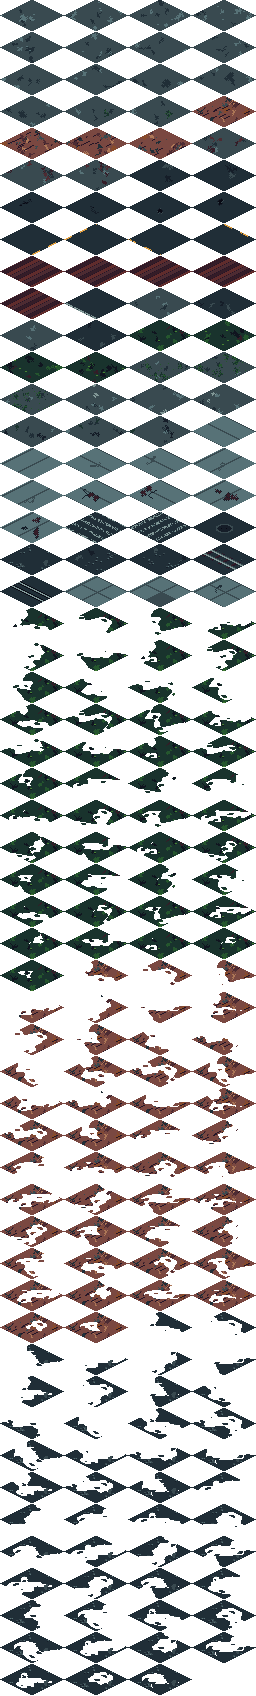
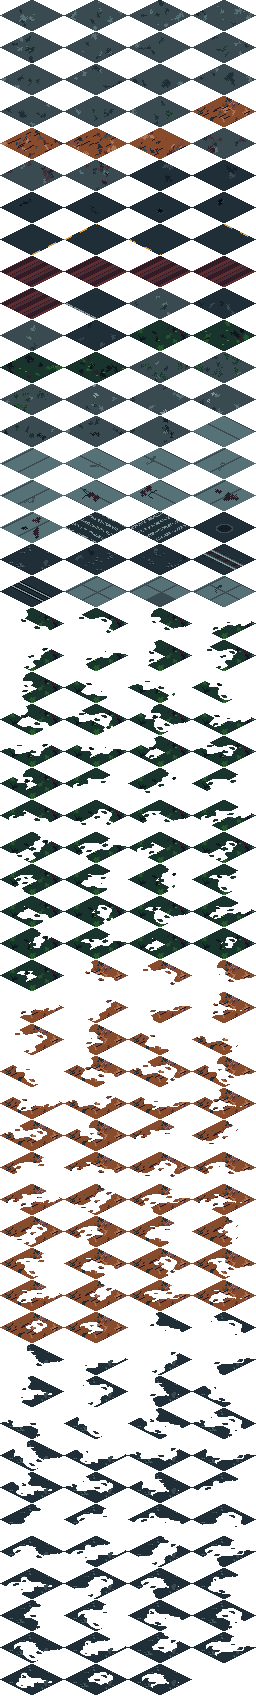
v0.6.60: brown dirt, and the wash stops running straight
THE DIRT IS BROWN, MEASURED RATHER THAN JUDGED. User: "the dirt seems still a
bit red, lets make it more brown". How far GREEN clears BLUE is what decides
brown against red. 7a4841 clears it by only 7, which still reads warm;
884b2b and ad7757 both clear it by 32. The base moves to 884b2b with ad7757
highlights. 4d2b32 stays as the shadow ONLY - it is -7, blue over green, and
would drag the surface back toward wine as a base.

THE DIRT WASH RAN IN STRAIGHT BANDS. User: "i still see some square ground
here". The wash used a flat "74% at one cell, 30% at two", which makes an
almost solid ring one cell thick. That ring hugs whatever it grew from, so
along a straight road the wash came out as a straight band - ragged at the
PIXEL level and dead straight in SHAPE, and shape is what was being seen. A
coarse hash now gives each 4x4 block its own reach, so the wash pushes three
cells deep in places and stops short in others.

THE OVERLAY FRONT HAS A CEILING AS WELL AS A FLOOR. d runs 0 at the masked
edge to 2 at the far vertex, so a front much past 0.85 can swallow a whole
tile. A fully covered tile looks like the other material but still REPORTS as
its own, so the next tile gets no overlay and the boundary jumps to that
tile's edge. Transition WIDTH comes from the wash, which genuinely converts
cells; an overlay only frays the edge.

--probe-world prints FRINGE {grass: n, dirt: n, gravel: n} now, so "is the
[…]

diff --git a/tools/gen_art.py b/tools/gen_art.py
@@ -329,10 +329,17 @@ def make_floor_tile(kind: str, variant: int) -> Canvas:
         # Darkened by COVERAGE, not by picking a darker base: every Apollo
         # brown below 7a4841 goes blue-over-green and turns mauve again. More
         # shadow and more grey mud drops the value while the hue stays earth.
-        region = _floor_base(c, rng, C("7a4841"), C("4d2b32"), C("ad7757"),
-                             0.20, 0.035)
-        speckle(c, rng, region, [C("202e37"), C("394a50")], [0.15, 0.06])
-        _tonal(c, rng, region, [C("4d2b32"), C("884b2b")], 3, 16, 34)
+        # BROWNER AGAIN (user: "the dirt seems still a bit red, lets make it
+        # more brown"). Measured rather than eyeballed - how far GREEN clears
+        # BLUE is what decides brown-vs-red, and 7a4841 only clears it by 7.
+        # 884b2b and ad7757 both clear it by 32, so the base moves up to
+        # 884b2b and the highlight to ad7757. 4d2b32 is kept ONLY as the
+        # shadow: it is -7 (blue over green) and would pull the whole surface
+        # back toward wine if it were the base.
+        region = _floor_base(c, rng, C("884b2b"), C("4d2b32"), C("ad7757"),
+                             0.16, 0.10)
+        speckle(c, rng, region, [C("202e37"), C("394a50")], [0.17, 0.07])
+        _tonal(c, rng, region, [C("7a4841"), C("ad7757")], 3, 16, 34)
         for i in range(rng.randint(10, 14)):
             x = 6 + rng.randrange(52)
             y = 4 + rng.randrange(24)
@@ -759,7 +766,17 @@ def _wander(s: float, ph: float, reach: float) -> float:
     n = (0.55 * math.sin(s * 2.3 + ph)
          + 0.30 * math.sin(s * 5.1 - ph * 1.7)
          + 0.15 * math.sin(s * 9.7 + ph * 2.9))
-    return reach * max(0.24, 0.58 + 0.62 * n)
+    # THE CEILING MATTERS AS MUCH AS THE FLOOR, and it is the subtler of the
+    # two. `d` runs 0 at the masked edge to 2 at the far vertex, so a front
+    # much past 0.85 can cover a whole tile - especially with two edges
+    # masked. A fully covered tile looks like the other material, but it
+    # still REPORTS as its own, so the next tile along gets no overlay and
+    # the visible boundary jumps to that tile's edge: a dead straight run,
+    # several tiles long. Capping it guarantees the base always shows
+    # through, so every boundary tile carries the ragged front itself.
+    # (Width of the transition comes from the WASH, which genuinely converts
+    # cells, not from letting one overlay swallow a tile.)
+    return min(0.85, reach * max(0.24, 0.58 + 0.62 * n))
 
 
 def make_fringe_overlay(over: Image.Image, mask: int, variant: int,

diff --git a/CHANGELOG.md b/CHANGELOG.md
@@ -3,6 +3,44 @@
 All notable changes to SPOILS are documented here. Versions follow a simple
 `0.minor.patch` scheme while the game is pre-release.
 
+## [0.6.60] - 2026-08-05 - brown dirt, and the wash stops running straight
+
+### Changed - the dirt is brown, measured rather than judged
+*"the dirt seems still a bit red, lets make it more brown"*. **How far GREEN
+clears BLUE is what decides brown against red.** `7a4841` clears it by only
+7, which still reads warm; `884b2b` and `ad7757` both clear it by 32. The
+base moves up to `884b2b` with `ad7757` highlights. `4d2b32` stays as the
+shadow ONLY - it is -7, blue over green, and would drag the whole surface
+back toward wine if it were the base.
+
+### Fixed - the dirt wash ran in straight bands
+*"i still see some square ground here"*. The wash used a flat "74% at one
+cell, 30% at two", which makes an almost solid ring one cell thick. That ring
+hugs whatever it grew from, so along a straight road the wash came out as a
+straight band - **ragged at the pixel level and dead straight in SHAPE**, and
+shape is what was being seen.
+
+A coarse hash now gives each 4x4 block its own reach, so the wash pushes
+three cells deep in places and stops short in others, and its outline is
+lobed instead of parallel to its source.
+
+### Changed - the overlay front has a ceiling as well as a floor
+`d` runs 0 at the masked edge to 2 at the far vertex, so a front much past
+0.85 can swallow a whole tile - especially with two edges masked. A fully
+covered tile looks like the other material but still REPORTS as its own, so
+the next tile gets no overlay and the visible boundary jumps to that tile's
+edge. The width of a transition comes from the wash, which genuinely
+converts cells; an overlay's job is only to ragged the edge.
+
+### Added - a fringe diagnostic
+`--probe-world` prints `FRINGE {grass: n, dirt: n, gravel: n}`, so "is the
+blending running at all" is now a measurement rather than a guess. It was
+the thing that settled this one: 1000+ overlays were being placed, which
+ruled the pass out and pointed at the wash instead.
+
+### Verified
+`SMOKE PASS`, 240 fps, worst frame 4.79 ms, `DOORS` 16 on unchanged cells.
+
 ## [0.6.59] - 2026-08-05 - the question marks, and dirt indoors
 
 ### Fixed - `blob()` was a random walk, not a blob

diff --git a/TASKS.md b/TASKS.md
@@ -5,7 +5,7 @@ one. **Read `CLAUDE.md` first** (project rules, systems map, verification
 workflow), then this file for what to actually build. `CHANGELOG.md`
 records what already shipped.
 
-**Current version: v0.6.59.** The release history was renumbered evenly on
+**Current version: v0.6.60.** The release history was renumbered evenly on
 2026-08-02 — read the versioning note in CLAUDE.md before quoting any old
 version number, because they were all remapped.
 
@@ -436,6 +436,30 @@ square"*.
    this exact bug was fixed once before - so **the remaining cause is
    elsewhere**, most likely `environment_system.gd`'s `_leaf_near`
    encoding (`>=100000 = red`). Measure before changing anything.
+
+10. **A one-off visual hitch while exploring** *(user, 2026-08-05)* - *"i
+    only see it while im walking and i only see it once, when i try and walk
+    back where i was to see if it happens again, it doesnt happen"*, *"like
+    sometimes i see it happen on a wall on a house"*, *"random stuff glitch
+    for like a milisecond"*.
+
+    **NOT DIAGNOSED - DO NOT GUESS AT THIS ONE.** "Once per thing, never
+    again in the same place" is the signature of a FIRST-USE cost, but which
+    one is unproven, and `--perf` holds a static camera so it cannot see it.
+    Candidates, in the order worth testing:
+    - `main.gd::_prewarm_textures` calls `load()` on every PNG and its
+      comment claims that does "decode + GPU upload". **Verify that claim** -
+      if the upload is actually deferred to first DRAW, the prewarm is not
+      doing what it says and the fix is to draw each texture once behind the
+      deploy screen.
+    - a shader PIPELINE variant compiling on first draw with new state, which
+      `shader_warm.gd` would not cover (it warms shaders, not every variant).
+    - the roof-reveal and interior-light nodes, which are created or toggled
+      the first time a building is approached.
+
+    **How to measure it**: `--perf` with the player WALKING through unvisited
+    ground, reporting worst-frame and where it occurred - the existing perf
+    mode does not move, so it has never been able to catch this.
 
 ## B0. Parking lots and aprons should JOIN the road network *(user, 2026-08-05)*
 

diff --git a/HANDOFF.md b/HANDOFF.md
@@ -315,6 +315,26 @@ starting anything** - several items are still open and at least one (the map
 redesign as "a painting") is a direction change that needs their sign-off on
 a sample first.
 
+**Shipped: v0.6.60 - brown dirt, and the wash stops running straight.**
+- **Brown vs red is decided by how far GREEN clears BLUE.** `7a4841` clears
+  it by 7 and still reads warm; `884b2b`/`ad7757` clear it by 32. Measure the
+  channels, do not judge the swatch.
+- **A uniform-probability spread makes a STRAIGHT band.** The dirt wash was
+  ~solid at one cell and sparse at two, so it hugged its source: ragged at
+  the pixel level, dead straight in SHAPE. A coarse per-block reach makes it
+  lobed. **Shape is what the user sees, not pixel-level raggedness** - that
+  distinction cost several iterations.
+- `--probe-world` prints `FRINGE {...}` now. It settled this one: 1000+
+  overlays were being placed, which ruled out the fringe pass and pointed at
+  the wash. **Add the measurement before the third guess, not after.**
+
+**OPEN AND EXPLICITLY NOT GUESSED AT: a one-off visual hitch while walking**
+(TASKS.md B0-NEW item 10). "Once per thing, never again in the same spot" is
+a first-use cost. `--perf` holds a STATIC camera so it has never been able to
+see it; the first job is a walking perf mode, not a fix. Note
+`_prewarm_textures`'s comment claims `load()` does the GPU upload - that
+claim is unverified and is the first thing to test.
+
 **Picked up at: the polish pass, ART half — three of six done.** Shipped this
 session: the title (v0.6.51), the map screen redo (v0.6.52), the layout
 revision (v0.6.53), terrain blending + house contrast (v0.6.54), the blend

diff --git a/CLAUDE.md b/CLAUDE.md
@@ -35,7 +35,7 @@ This file carries everything a fresh session needs that isn't in those two.
 
 <!-- CHECKED: --checkdocs parses the version out of the next line. Keep the
 	 form "vX.Y.Z shipped" or the check will fail loudly. -->
-**v0.6.59 shipped, 2026-08-05.** Milestone 1 (a walkable world) is DONE.
+**v0.6.60 shipped, 2026-08-05.** Milestone 1 (a walkable world) is DONE.
 Milestone 2 — guns, tunnels, the story opening — is designed and waiting
 on the user's explicit "go".
 

diff --git a/docs/sessions/2026-08-05.md b/docs/sessions/2026-08-05.md
@@ -79,3 +79,7 @@ yes continue
 
 is all this stuff reflected in the map too?
 
+## 12:58:36 · session 7dcde8ec
+
+i still see this on the newest version, also the dirt seems still a bit red, lets make it more brown
+
